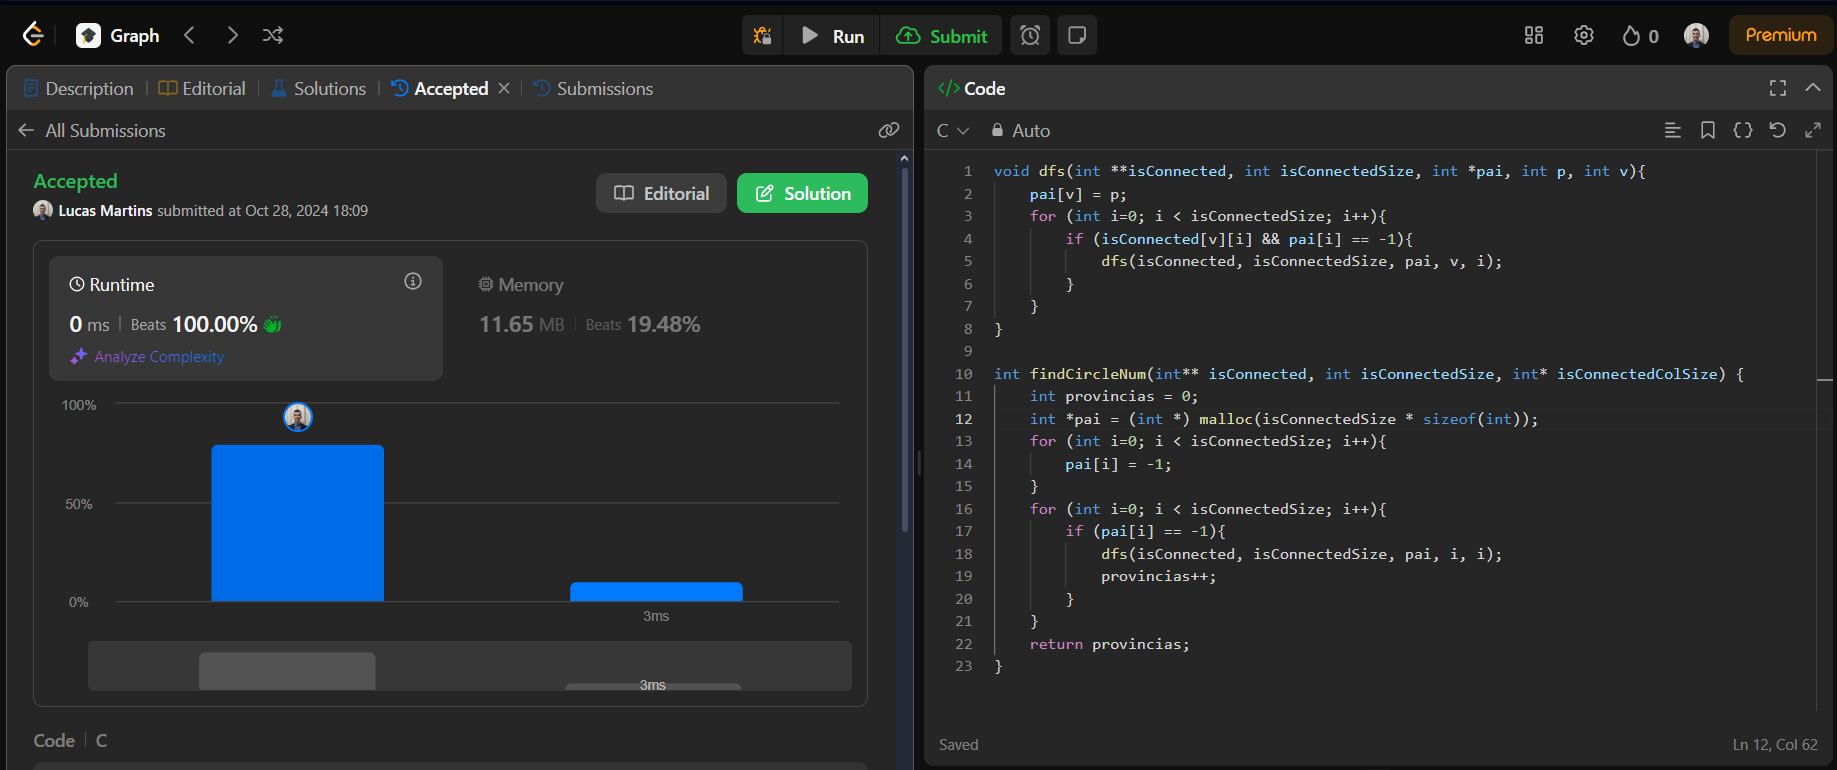
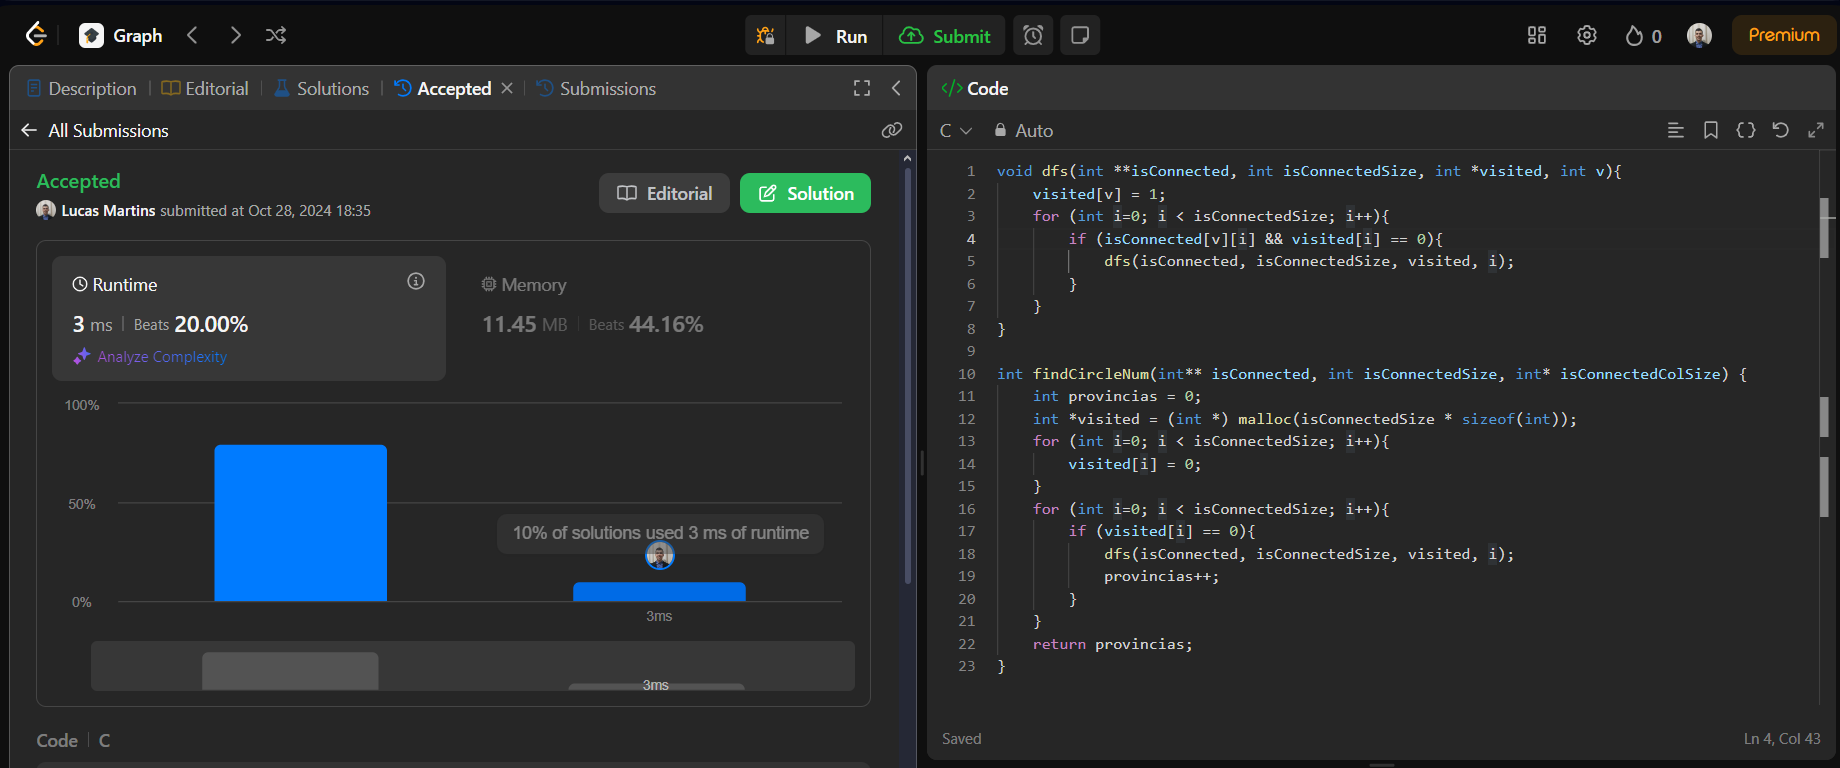
remove argumento desnecessario

diff --git a/problems/NumberOfProvinces/numberOfProvinces.c b/problems/NumberOfProvinces/numberOfProvinces.c
@@ -1,26 +1,26 @@
 #include <stdio.h>
 #include <stdlib.h>
 
-void dfs(int **isConnected, int isConnectedSize, int *pai, int p, int v){
-    pai[v] = p;
+void dfs(int **isConnected, int isConnectedSize, int *visited, int v){
+    visited[v] = 1;
     for (int i=0; i < isConnectedSize; i++){
-        if (isConnected[v][i] && pai[i] == -1){
-            dfs(isConnected, isConnectedSize, pai, v, i);
+        if (isConnected[v][i] && visited[i] == 0){
+            dfs(isConnected, isConnectedSize, visited, i);
         }
     }
 }
 
 int findCircleNum(int** isConnected, int isConnectedSize, int* isConnectedColSize) {
-    int provincias = 0;
-    int *pai = (int *) malloc(isConnectedSize * sizeof(int));
+    int provinces = 0;
+    int *visited = (int *) malloc(isConnectedSize * sizeof(int));
     for (int i=0; i < isConnectedSize; i++){
-        pai[i] = -1;
+        visited[i] = 0;
     }
     for (int i=0; i < isConnectedSize; i++){
-        if (pai[i] == -1){
-            dfs(isConnected, isConnectedSize, pai, i, i);
-            provincias++;
+        if (visited[i] == 0){
+            dfs(isConnected, isConnectedSize, visited, i);
+            provinces++;
         }
     }
-    return provincias;
+    return provinces;
 }
